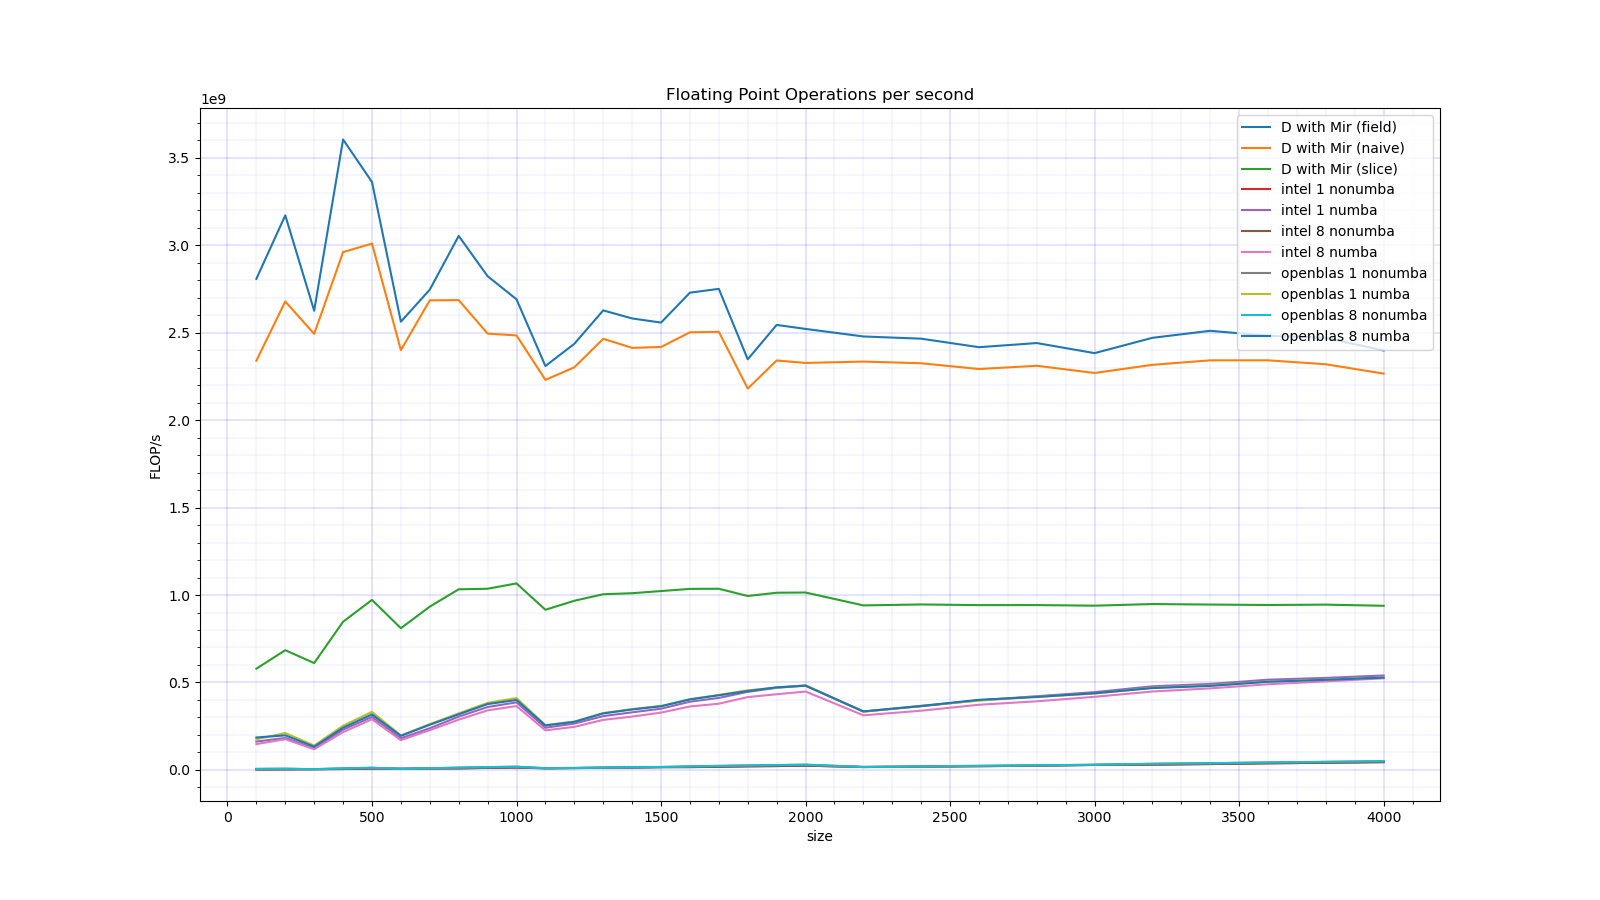
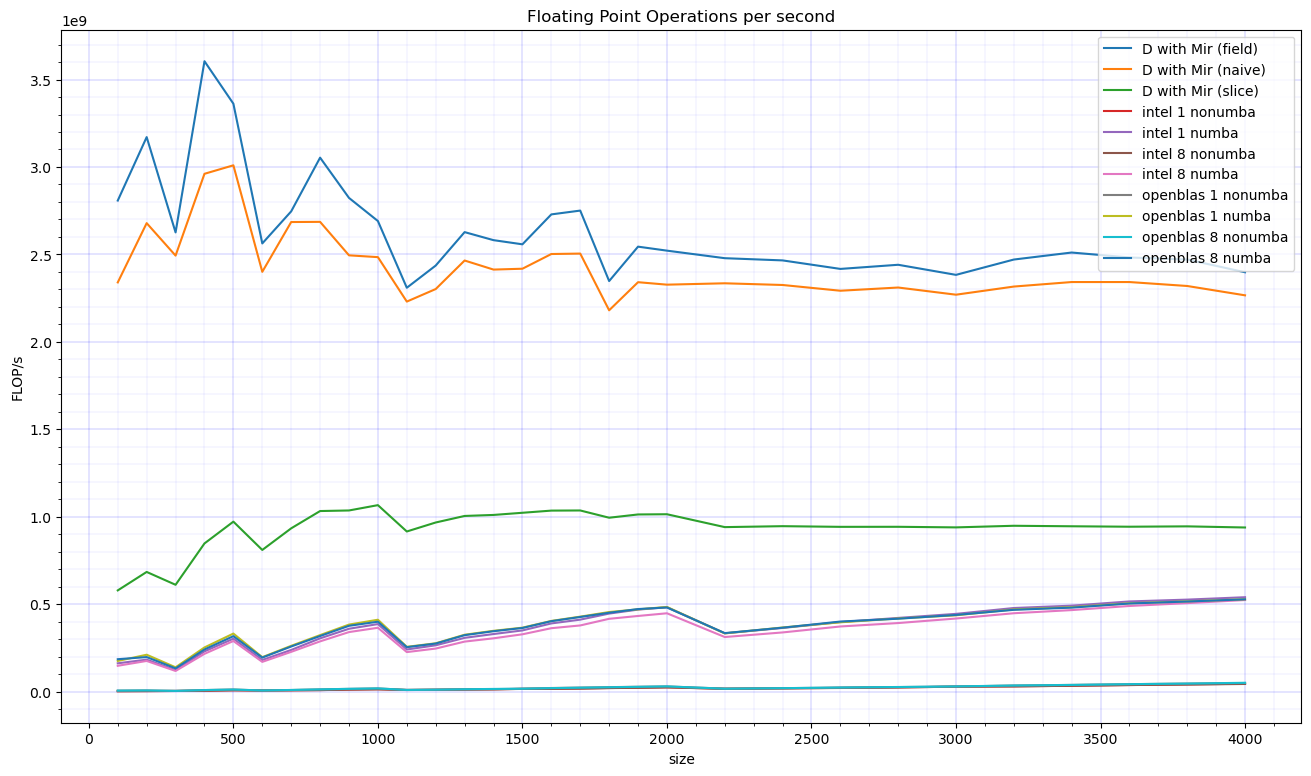
less white borders around pictures

diff --git a/scripts/data.py b/scripts/data.py
@@ -101,7 +101,7 @@ def subplots(frames, base_path, column):
         axe.set_title(name)
 
     fig.tight_layout()
-    fig.savefig(f'{base_path}_{column}_subplots.png')
+    fig.savefig(f'{base_path}_{column}_subplots.png', bbox_inches='tight')
 
 
 def extract_name(path):
@@ -125,7 +125,7 @@ def plot(frames, func, base_path, title):
     plt.grid(color='b', linestyle='-', linewidth=0.3, alpha=0.5, which='major')
     plt.grid(color='b', linestyle='-', linewidth=0.1, alpha=0.5, which='minor')
 
-    plt.savefig(f'{base_path}_{func.__name__}.png')
+    plt.savefig(f'{base_path}_{func.__name__}.png', bbox_inches='tight')
 
 
 def main():
